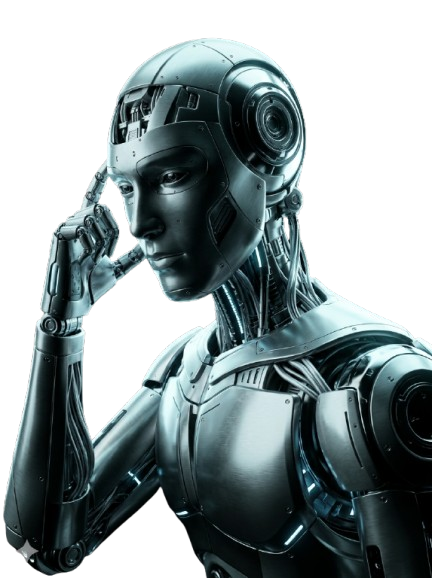
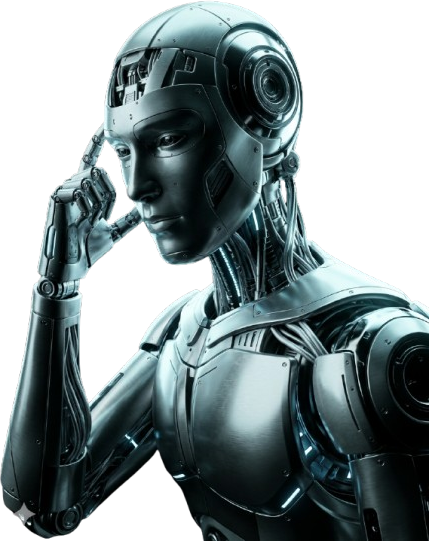
Trim robot.png transparent borders and match the visual frame to it
The screenshot was showing empty navy below the robot because the hero
visual frame was nearly square (1 / 1.05) while the robot image is
clearly portrait (~0.79). object-fit: contain therefore letterboxed
the image vertically.

Two changes that together kill the gap:

- Auto-trim robot.png with PIL.getbbox(): drop the 37px of transparent
  pixels that sat above the head and the 3px sliver to its left, so
  the file is now 429 x 541 instead of 432 x 578 — the bounding box of
  the actual robot, edge to edge.
- Set .hero-visual aspect-ratio to 429 / 541 so the frame matches the
  trimmed asset exactly. The robot now fills the box from corner
  bracket to corner bracket; the bottom of the hero hugs the bottom
  of the figure.
- Drop max-width slightly (520 → 480 desktop, 380 → 320 mobile) to
  keep the figure feeling proportional next to the headline now that
  it actually fills its frame.

https://claude.ai/code/session_01YSqeJkbN9NLqqWdSBkoyWN

diff --git a/styles.css b/styles.css
@@ -239,8 +239,10 @@ button { font-family: inherit; cursor: pointer; background: none; border: none; 
 .hero-visual {
   position: relative;
   width: 100%;
-  aspect-ratio: 1 / 1.05;
-  max-width: 520px;
+  /* Match the trimmed robot.png ratio exactly so the figure fills the
+     visual frame edge-to-edge with zero letterboxing. */
+  aspect-ratio: 429 / 541;
+  max-width: 480px;
   justify-self: end;
 }
 /* Subtle silver radial behind the figure */
@@ -667,7 +669,7 @@ button { font-family: inherit; cursor: pointer; background: none; border: none; 
 
   .hero { padding: 7rem 1.8rem 4rem; }
   .hero-inner { grid-template-columns: 1fr; gap: 3rem; }
-  .hero-visual { justify-self: center; max-width: 380px; aspect-ratio: 1 / 1; }
+  .hero-visual { justify-self: center; max-width: 320px; }
   .manifesto, .partners, .access { padding: 5rem 1.8rem; }
   .capabilities { padding: 5rem 0; }
   .capability-grid { grid-template-columns: 1fr; padding: 0 1.8rem; }
